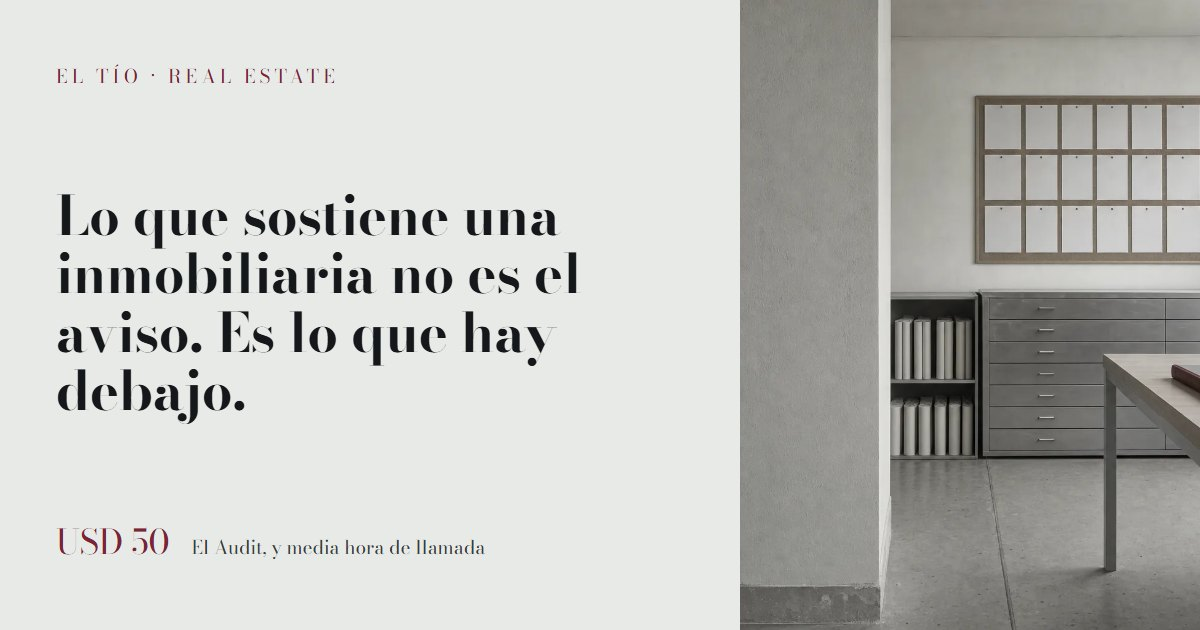
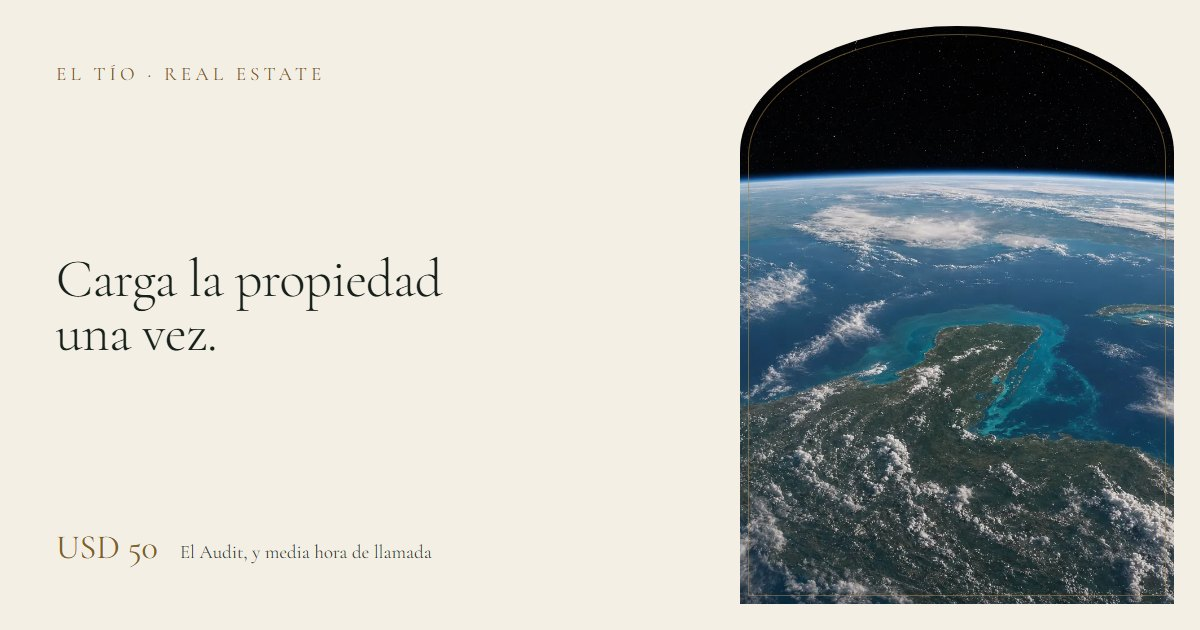
fix(real-estate): tarjeta social nueva y area tactil del correo
Salida generada, la hoja y las dos tarjetas resincronizadas.

diff --git a/real-estate.css b/real-estate.css
@@ -1770,3 +1770,14 @@ h3 { font-family: var(--display); font-weight: 400; letter-spacing: 0; }
   letter-spacing: 0.01em;
   font-family: var(--display);
 }
+
+
+/* El correo del cierre medido en telefono daba 81 por 20 pixeles de area tactil, contra
+   los 44 de minimo. Se agranda con padding y no cambiando el `display` a inline-block a
+   secas: ese cambio, hecho en la portada, descentro el texto del enlace porque
+   inline-block anula el `align-items` del contenedor. Aca el contexto es de bloque, asi
+   que el padding alcanza y no mueve nada. */
+.rotulo-lamina .valor a {
+  display: inline-block;
+  padding-block: 12px;
+}
